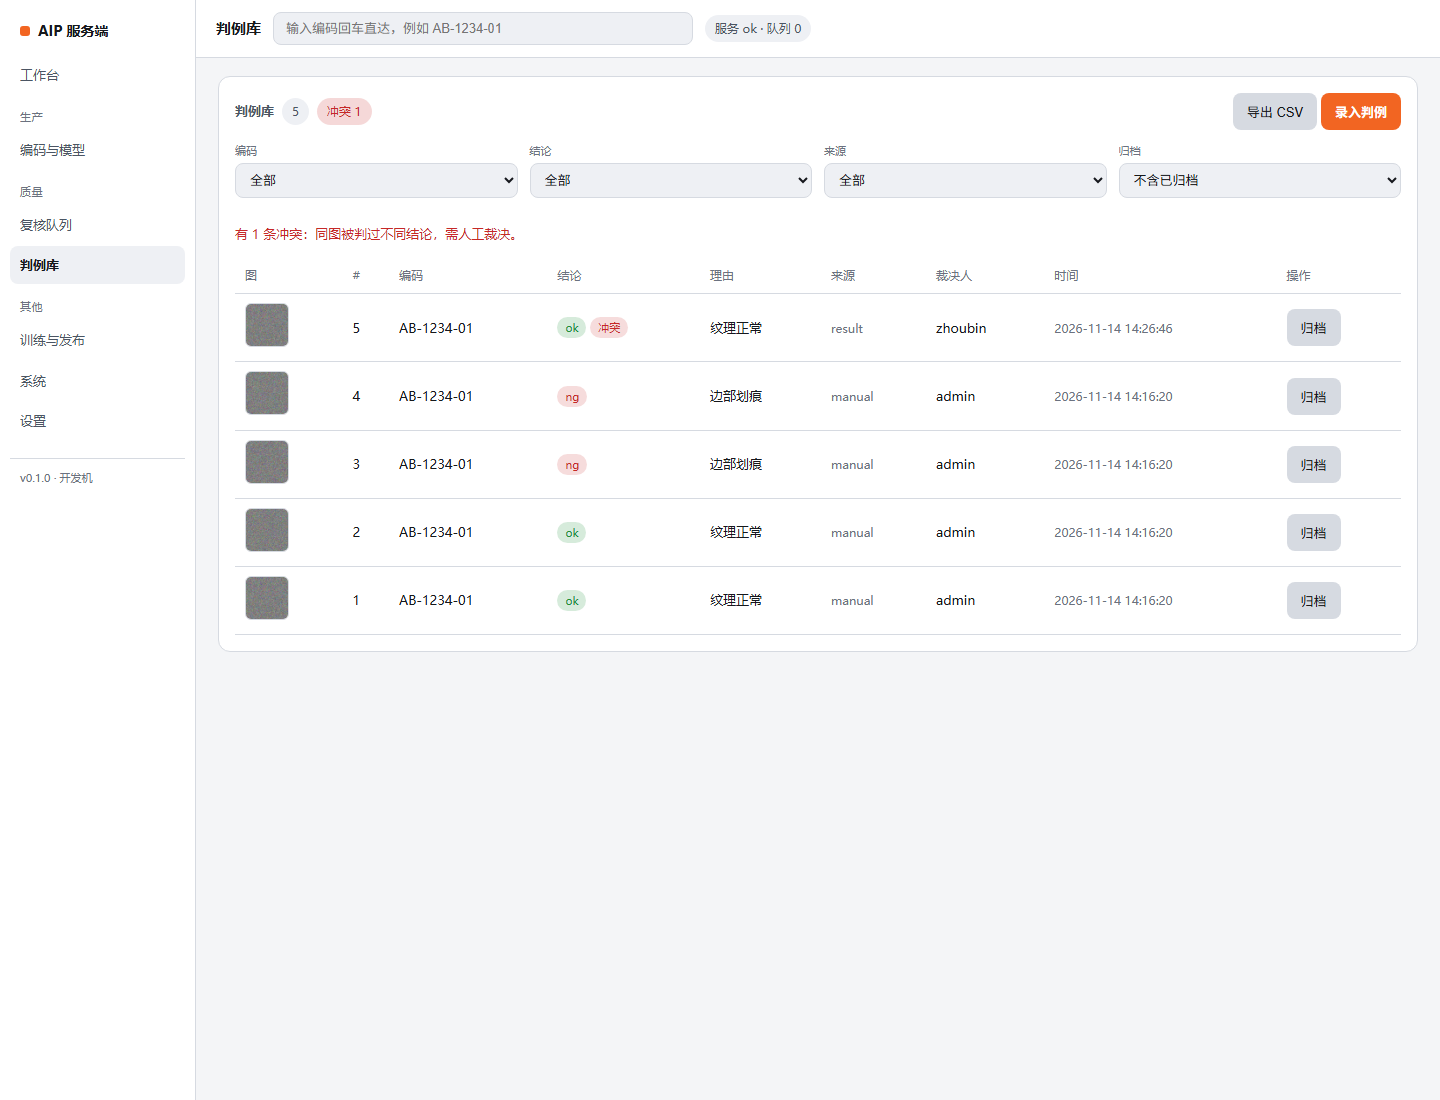
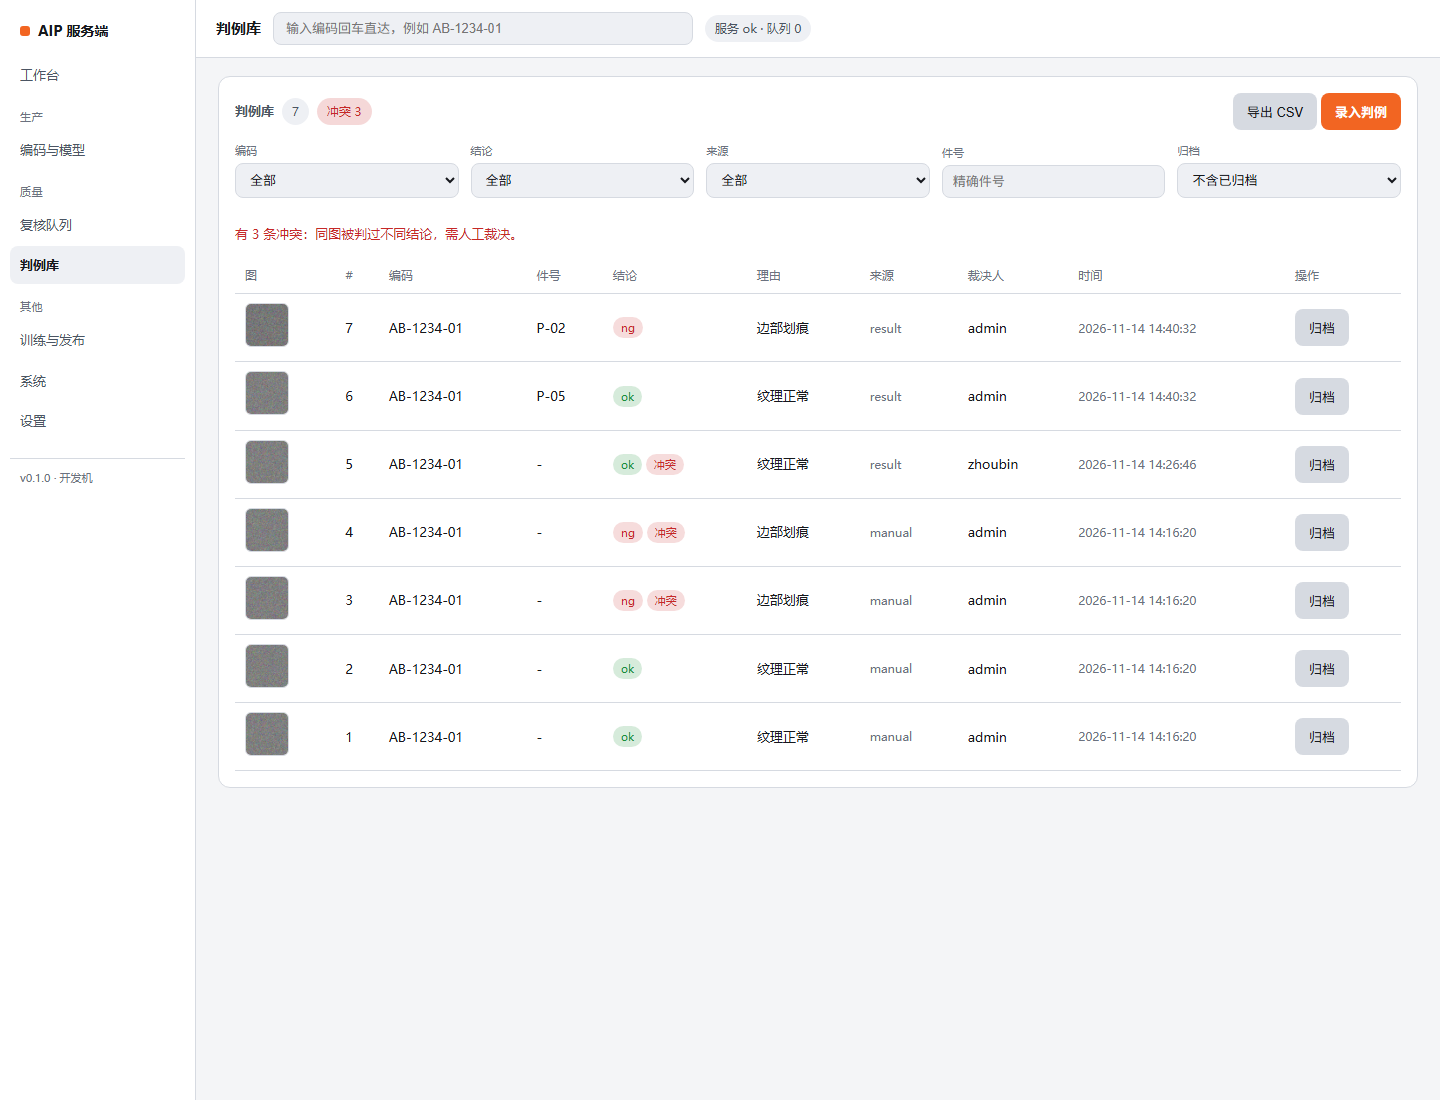
feat: 判例按件聚合（part_no 唯一），同件多拍只算一条

diff --git a/aip/web/admin.html b/aip/web/admin.html
@@ -160,6 +160,7 @@
     <h2 style="margin-bottom:12px">录入判例</h2>
     <label for="f_code">编码</label><input id="f_code" required placeholder="AB-1234-01">
     <label for="f_path">裁片路径</label><input id="f_path" required placeholder="data/crops/xxx.png">
+    <label for="f_part">件号（同件只录一条）</label><input id="f_part" placeholder="P-20261114-001">
     <label for="f_verdict">结论</label>
     <select id="f_verdict"><option value="ok">可接受 ok</option><option value="ng">不可接受 ng</option></select>
     <label for="f_reason">一句话理由</label><input id="f_reason" placeholder="边部划痕">
@@ -788,13 +789,14 @@ async function renderSettings() {
   });
 }
 
-let caseState = {code: "", verdict: "", source: "", conflict: false, showArchived: false};
+let caseState = {code: "", verdict: "", source: "", partNo: "", conflict: false, showArchived: false};
 
 async function renderCases() {
   const params = new URLSearchParams({limit: "50"});
   if (caseState.code) params.set("code", caseState.code);
   if (caseState.verdict) params.set("verdict", caseState.verdict);
   if (caseState.source) params.set("source", caseState.source);
+  if (caseState.partNo) params.set("part_no", caseState.partNo);
   if (caseState.conflict) params.set("conflict", "true");
   if (caseState.showArchived) params.set("include_archived", "true");
 
@@ -838,6 +840,8 @@ async function renderCases() {
             <option value="result" ${caseState.source === "result" ? "selected" : ""}>复核转</option>
             <option value="import" ${caseState.source === "import" ? "selected" : ""}>导入</option>
           </select></div>
+        <div><label for="cq_part">件号</label>
+          <input id="cq_part" value="${esc(caseState.partNo || "")}" placeholder="精确件号"></div>
         <div><label for="cq_arch">归档</label>
           <select id="cq_arch">
             <option value="" ${!caseState.showArchived ? "selected" : ""}>不含已归档</option>
@@ -852,7 +856,7 @@ async function renderCases() {
       ${rows.length === 0 ? `<div class="empty">还没有判例。<b>为什么要有</b>：判例是训练数据来源，也是"这张为什么这么判"的证据。</div>` : `
       <table><caption class="sr-only">判例列表</caption>
         <thead><tr>
-          <th scope="col">图</th><th scope="col">#</th><th scope="col">编码</th><th scope="col">结论</th>
+          <th scope="col">图</th><th scope="col">#</th><th scope="col">编码</th><th scope="col">件号</th><th scope="col">结论</th>
           <th scope="col">理由</th><th scope="col">来源</th><th scope="col">裁决人</th>
           <th scope="col">时间</th><th scope="col">操作</th>
         </tr></thead>
@@ -861,6 +865,7 @@ async function renderCases() {
                 onerror="this.style.visibility='hidden'"></td>
           <td>${c.id}</td>
           <td>${esc(c.code)}</td>
+          <td>${esc(c.part_no || "-")}</td>
           <td>${tag(c.verdict)}${c.conflict ? ' <span class="tag ng">冲突</span>' : ""}</td>
           <td>${esc(c.reason || "-")}</td>
           <td class="muted">${esc(c.source || "manual")}</td>
@@ -892,6 +897,11 @@ async function renderCases() {
   $("cq_verdict").onchange = (e) => { caseState.verdict = e.target.value; renderCases(); };
   $("cq_source").onchange = (e) => { caseState.source = e.target.value; renderCases(); };
   $("cq_arch").onchange = (e) => { caseState.showArchived = e.target.value === "1"; renderCases(); };
+  $("cq_part").addEventListener("keydown", (e) => {
+    if (e.key !== "Enter") return;
+    caseState.partNo = e.target.value.trim();
+    renderCases();
+  });
 }
 
 async function renderTraining() {
@@ -1061,7 +1071,8 @@ $("caseForm").addEventListener("submit", async (ev) => {
       verdict: $("f_verdict").value,
       adjudicator: $("f_adj").value.trim(),
       reason: $("f_reason").value || null,
-      source: $("f_source").value
+      source: $("f_source").value,
+      part_no: $("f_part").value.trim() || null
     });
     $("caseDlg").close();
     $("caseForm").reset();

diff --git a/aip/src/aip/cases.py b/aip/src/aip/cases.py
@@ -41,6 +41,7 @@ class Case:
     model_version_id: int | None = None
     conflict: int = 0
     archived_at: str | None = None
+    part_no: str | None = None
 
 
 def _sha256(path: str) -> str | None:
@@ -65,6 +66,7 @@ def create_case(
     source: str = "manual",
     result_id: int | None = None,
     model_version_id: int | None = None,
+    part_no: str | None = None,
 ) -> int:
     if verdict not in VERDICTS:
         raise ValueError(f"verdict 只能是 {VERDICTS}，收到 {verdict!r}")
@@ -74,6 +76,22 @@ def create_case(
     row = conn.execute("SELECT id FROM product_code WHERE code = ?", (product_code,)).fetchone()
     if row is None:
         raise LookupError(f"未知产品编码: {product_code}")
+
+    part_no = (part_no or "").strip() or None
+
+    if part_no is not None:
+        existing = conn.execute(
+            "SELECT id, verdict FROM case_item WHERE product_code_id = ? AND part_no = ?",
+            (row["id"], part_no),
+        ).fetchone()
+        if existing is not None:
+            conflict = existing["verdict"] != verdict
+            if conflict:
+                with tx(conn):
+                    conn.execute("UPDATE case_item SET conflict = 1 WHERE id = ?", (existing["id"],))
+                    record(conn, actor=adjudicator, action="case.conflict", entity="case_item",
+                           entity_id=existing["id"], payload={"attempted": verdict, "part_no": part_no})
+            raise DuplicateCase(existing["id"], conflict)
 
     sha = _sha256(crop_path)
     if sha is not None:
@@ -94,9 +112,10 @@ def create_case(
         cur = conn.execute(
             "INSERT INTO case_item"
             " (product_code_id, crop_path, verdict, reason, adjudicator, sha256, source,"
-            "  result_id, model_version_id)"
-            " VALUES (?, ?, ?, ?, ?, ?, ?, ?, ?)",
-            (row["id"], crop_path, verdict, reason, adjudicator, sha, source, result_id, model_version_id),
+            "  result_id, model_version_id, part_no)"
+            " VALUES (?, ?, ?, ?, ?, ?, ?, ?, ?, ?)",
+            (row["id"], crop_path, verdict, reason, adjudicator, sha, source, result_id,
+             model_version_id, part_no),
         )
         case_id = int(cur.lastrowid)
         record(conn, actor=adjudicator, action="case.create", entity="case_item",
@@ -120,6 +139,7 @@ def list_cases(
     adjudicator: str | None = None,
     verdict: str | None = None,
     source: str | None = None,
+    part_no: str | None = None,
     conflict: bool | None = None,
     include_archived: bool = False,
     limit: int = 50,
@@ -141,6 +161,9 @@ def list_cases(
     if source is not None:
         clauses.append("c.source = ?")
         params.append(source)
+    if part_no is not None:
+        clauses.append("c.part_no = ?")
+        params.append(part_no)
     if conflict is not None:
         clauses.append("c.conflict = ?")
         params.append(1 if conflict else 0)
@@ -250,4 +273,5 @@ def _to_case(row: sqlite3.Row) -> Case:
         model_version_id=row["model_version_id"] if "model_version_id" in keys else None,
         conflict=row["conflict"] if "conflict" in keys else 0,
         archived_at=row["archived_at"] if "archived_at" in keys else None,
+        part_no=row["part_no"] if "part_no" in keys else None,
     )

diff --git a/tests/test_api_cases_quality.py b/tests/test_api_cases_quality.py
@@ -90,3 +90,42 @@ def test_filters_by_verdict_source_and_audit_written(client, tmp_path):
 
     audit = client.get("/api/audit/recent").json()
     assert any(a["action"] == "case.create" for a in audit)
+
+
+def test_same_part_no_is_one_case(client, tmp_path):
+    _seed(client)
+    a = _img(tmp_path, "a.png", (11, 11, 11))
+    b = _img(tmp_path, "b.png", (22, 22, 22))
+    first = client.post(
+        "/api/cases",
+        json={"code": "AB-1", "crop_path": a, "verdict": "ok", "adjudicator": "z", "part_no": "P-100"},
+    )
+    assert first.status_code == 201
+
+    dup = client.post(
+        "/api/cases",
+        json={"code": "AB-1", "crop_path": b, "verdict": "ok", "adjudicator": "z", "part_no": "P-100"},
+    )
+    assert dup.status_code == 409
+    assert dup.json()["error_code"] == "case_duplicate"
+
+    rows = client.get("/api/cases", params={"part_no": "P-100"}).json()
+    assert len(rows) == 1
+    assert rows[0]["part_no"] == "P-100"
+
+
+def test_same_part_different_verdict_flags_conflict(client, tmp_path):
+    _seed(client)
+    a = _img(tmp_path, "a.png", (33, 33, 33))
+    b = _img(tmp_path, "b.png", (44, 44, 44))
+    case_id = client.post(
+        "/api/cases",
+        json={"code": "AB-1", "crop_path": a, "verdict": "ok", "adjudicator": "z", "part_no": "P-200"},
+    ).json()["id"]
+    client.post(
+        "/api/cases",
+        json={"code": "AB-1", "crop_path": b, "verdict": "ng", "adjudicator": "z", "part_no": "P-200"},
+    )
+    conflicts = client.get("/api/cases/conflicts").json()
+    assert [c["id"] for c in conflicts] == [case_id]
+

diff --git a/scripts/seed_partno_cases.py b/scripts/seed_partno_cases.py
@@ -1,0 +1,47 @@
+"""补两条带件号的判例（含一条同件冲突），演示按件聚合。"""
+
+from __future__ import annotations
+
+import sys
+from pathlib import Path
+
+import httpx
+
+ROOT = Path(__file__).resolve().parents[1]
+sys.path.insert(0, str(ROOT / "aip" / "src"))
+
+from aip import store  # noqa: E402
+
+conn = store.connect(ROOT / "data" / "aip.db")
+rows = conn.execute(
+    "SELECT r.id, r.crop_path, j.part_no FROM inference_result r"
+    " JOIN inference_job j ON j.id = r.job_id ORDER BY r.id"
+).fetchall()
+conn.close()
+
+with httpx.Client(base_url="http://127.0.0.1:8100", timeout=15) as client:
+    made = 0
+    for r in rows:
+        if not r["part_no"]:
+            continue
+        resp = client.post(
+            "/api/cases",
+            json={
+                "code": "AB-1234-01",
+                "crop_path": r["crop_path"],
+                "verdict": "ok" if made % 2 == 0 else "ng",
+                "adjudicator": "admin",
+                "reason": "纹理正常" if made % 2 == 0 else "边部划痕",
+                "source": "result",
+                "result_id": r["id"],
+                "part_no": r["part_no"],
+            },
+        )
+        if resp.status_code == 201:
+            made += 1
+        if made >= 2:
+            break
+    cases = client.get("/api/cases").json()
+    print("cases:", len(cases))
+    for c in cases[:6]:
+        print(" ", c["id"], c["code"], c.get("part_no"), c["verdict"], "conflict" if c["conflict"] else "")

diff --git a/aip/src/aip/api/routes_admin.py b/aip/src/aip/api/routes_admin.py
@@ -303,6 +303,7 @@ class CaseIn(BaseModel):
     source: str = "manual"
     result_id: int | None = None
     model_version_id: int | None = None
+    part_no: str | None = None
 
 
 class CasePatch(BaseModel):
@@ -384,6 +385,7 @@ def list_cases(
     adjudicator: str | None = None,
     verdict: str | None = None,
     source: str | None = None,
+    part_no: str | None = None,
     conflict: bool | None = None,
     include_archived: bool = False,
     limit: int = 50,
@@ -396,6 +398,7 @@ def list_cases(
         adjudicator=adjudicator,
         verdict=verdict,
         source=source,
+        part_no=part_no,
         conflict=conflict,
         include_archived=include_archived,
         limit=limit,
@@ -417,6 +420,7 @@ def create_case(body: CaseIn, conn: sqlite3.Connection = Depends(get_conn)) -> d
             source=body.source,
             result_id=body.result_id,
             model_version_id=body.model_version_id,
+            part_no=body.part_no,
         )
     except cases_mod.DuplicateCase as exc:
         raise ApiError(
